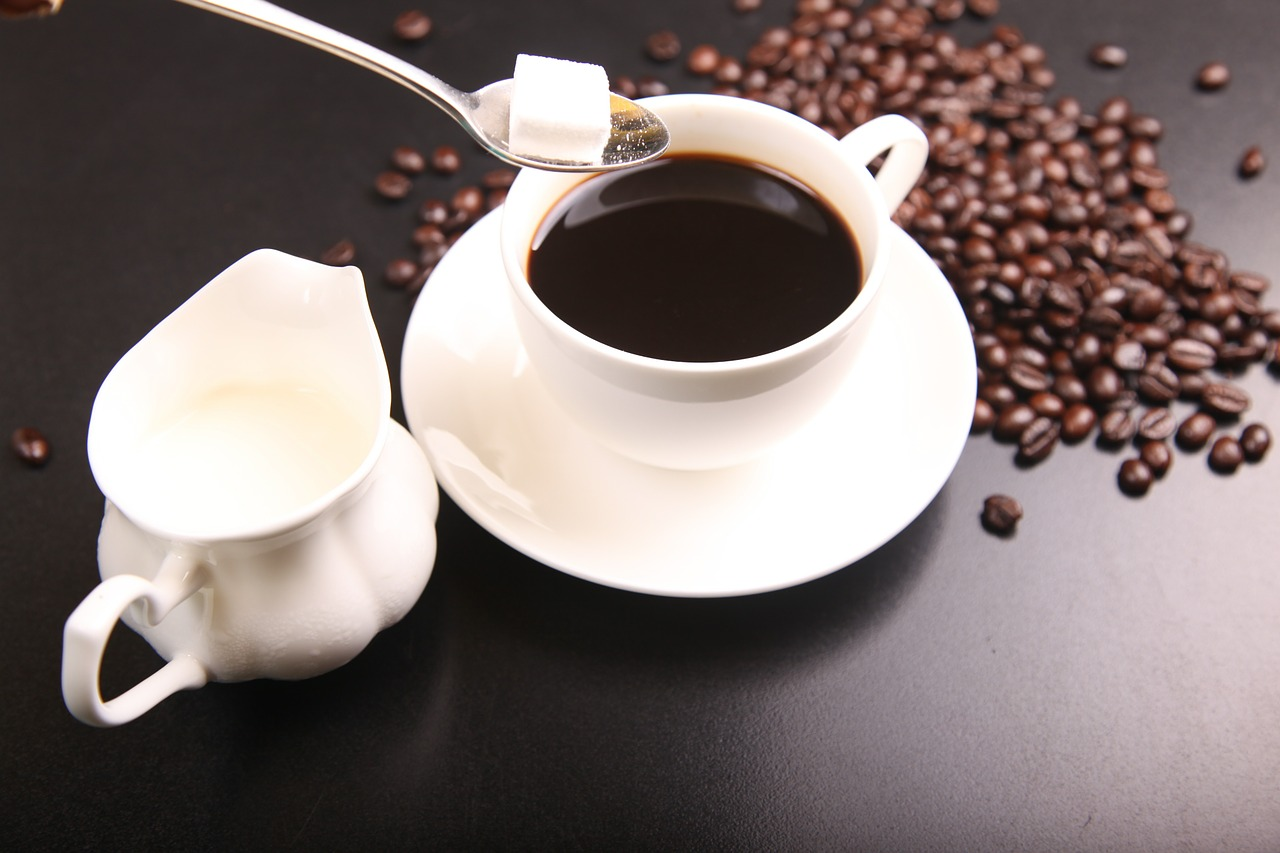
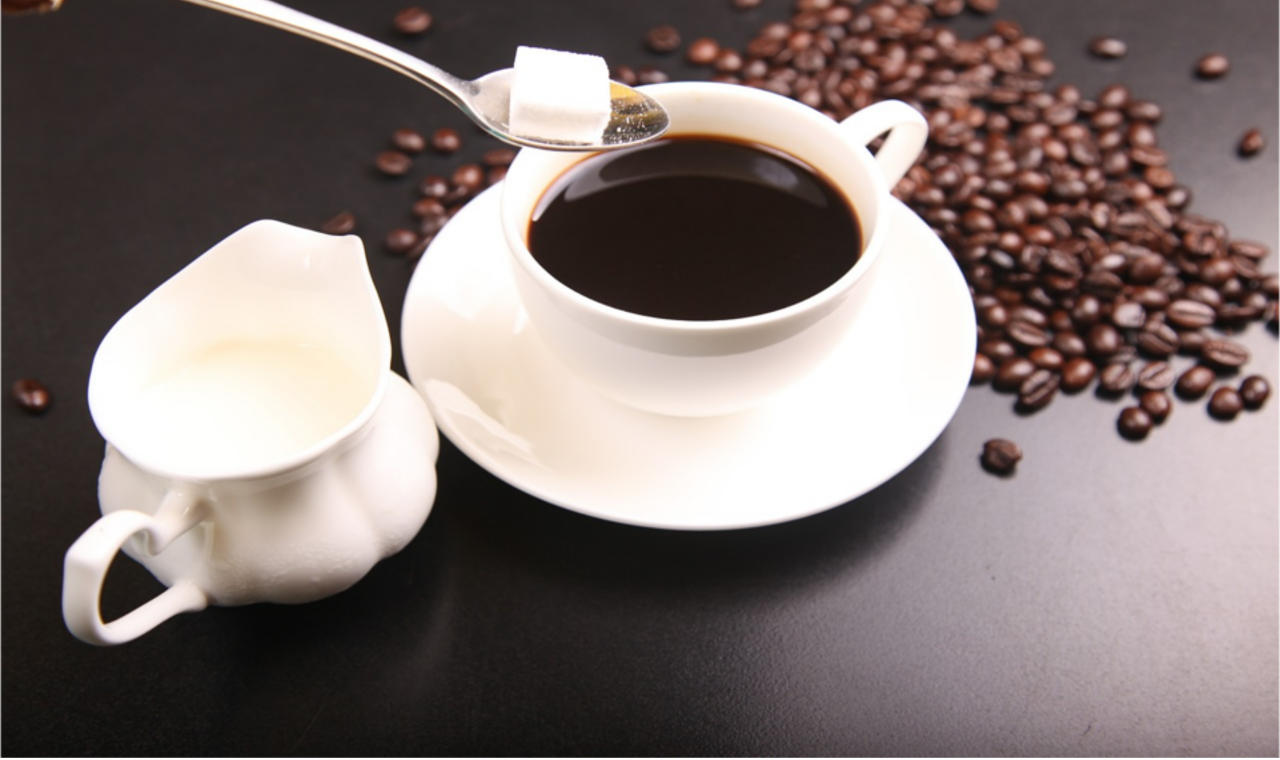
manage font size on various devices, added photos for small screen

diff --git a/src/main/resources/templates/index.html b/src/main/resources/templates/index.html
@@ -8,7 +8,7 @@
 <body>
 	<section layout:fragment="content">
 		<div class="container">
-			<div class="greetings center-block text-center">
+			<div class="greetings text-center">
 				<div id="mycarousel" class="carousel slide" data-ride="carousel">
 					<div class="carousel-inner">
 						<div class="item active">
@@ -16,24 +16,29 @@
 							<h3>Oh, Hello There Beautiful Human Being!</h3>
 							
 							<div th:if="${goodMorning}">
-								<img th:src="@{/image/morning.jpg}" class="img-responsive" alt="Greetings from Buddhi Bal Thapa" />
+								<img th:src="@{/image/morning.jpg}" class="center-block img-responsive hidden-sm hidden-xs" alt="Greetings from Buddhi Bal Thapa" />
+								<img th:src="@{/image/morning640x360.jpg}" class="center-block img-responsive hidden-md hidden-lg" alt="Greetings from Buddhi Bal Thapa" />
 								<div class="carousel-caption greeting-text">Good morning! Have a great day.</div>
 							</div>
 
 							<div th:if="${goodAfternoon}">
-								<img th:src="@{/image/afternoon.jpg}" class="img-responsive" alt="Greetings from Buddhi Bal Thapa" />
+								<img th:src="@{/image/afternoon.jpg}" class="center-block img-responsive hidden-sm hidden-xs" alt="Greetings from Buddhi Bal Thapa" />
+								<img th:src="@{/image/afternoon640x360.jpg}" class="center-block img-responsive hidden-md hidden-lg" alt="Greetings from Buddhi Bal Thapa" />
 								<div class="carousel-caption greeting-text">Good afternoon! How is your day today? Time for coffee?</div>
 							</div>
 							<div th:if="${goodEvening}">
-								<img th:src="@{/image/evening.jpg}" class="img-responsive" alt="Greetings from Buddhi Bal Thapa" />
+								<img th:src="@{/image/evening.jpg}" class="center-block img-responsive hidden-sm hidden-xs" alt="Greetings from Buddhi Bal Thapa" />
+								<img th:src="@{/image/evening640x360.jpg}" class="center-block img-responsive hidden-md hidden-lg" alt="Greetings from Buddhi Bal Thapa" />
 								<div class="carousel-caption greeting-text">Good evening! Time for some snacks?</div>
 							</div>
 							<div th:if="${goodNight}">
-								<img th:src="@{/image/night.jpg}" class="img-responsive" alt="Greetings from Buddhi Bal Thapa" />
+								<img th:src="@{/image/night.jpg}" class="center-block img-responsive hidden-sm hidden-xs" alt="Greetings from Buddhi Bal Thapa" />
+								<img th:src="@{/image/night640x360.jpg}" class="center-block img-responsive hidden-md hidden-lg" alt="Greetings from Buddhi Bal Thapa" />
 								<div class="carousel-caption greeting-text">Hope you had a great day today. Good night, time to sleep</div>
 							</div>
 							<div th:if="${midNight}">
-								<img th:src="@{/image/midnight.jpg}" class="img-responsive" alt="Greetings from Buddhi Bal Thapa" />
+								<img th:src="@{/image/midnight.jpg}" class="center-block img-responsive hidden-sm hidden-xs" alt="Greetings from Buddhi Bal Thapa" />
+								<img th:src="@{/image/midnight640x360.jpg}" class="center-block img-responsive hidden-md hidden-lg" alt="Greetings from Buddhi Bal Thapa" />
 								<div class="carousel-caption greeting-text">Wow! You still awake?</div>
 							</div>
 						</div>

diff --git a/src/main/resources/static/css/site.css b/src/main/resources/static/css/site.css
@@ -1,25 +1,24 @@
-i@CHARSET "UTF-8";
+i
+ @CHARSET "UTF-8";
 
 /* Custom CSS for the application */
- 
 html, body {
-	background-color:#efefef;
-  	height: 100%;
-  	margin: 0;
+	background-color: #efefef;
+	height: 100%;
+	margin: 0;
 	font-size: 16px;
 	line-height: 24px;
 }
 
 /* keep footer at buttom */
 .content {
-  min-height: calc(100vh - 70px);
+	min-height: calc(100vh - 70px);
 }
 
 .footer {
-  height: 50px;
+	height: 50px;
 }
 /* footer ends */
-
 ul {
 	list-style-type: none;
 }
@@ -37,7 +36,7 @@ a {
 	border-radius: 0px;
 }
 
-.home-logo{
+.home-logo {
 	margin-top: -8px;
 }
 
@@ -103,8 +102,9 @@ a {
 .panel-title {
 	color: #eadbdb;
 }
-.login-button{
-	width:100%
+
+.login-button {
+	width: 100%
 }
 /* login box ends */
 
@@ -144,7 +144,7 @@ a {
 
 .blog-panel {
 	margin-left: 10px;
-	margin-top:10px;
+	margin-top: 10px;
 }
 
 .title-heading {
@@ -158,60 +158,69 @@ a {
 	margin: -10px 0px;
 }
 
-.blog-visit{
-    border-top: 1px solid gray;
-    border-bottom: 1px solid gray;
-    margin-top: 25px;
+.blog-visit {
+	border-top: 1px solid gray;
+	border-bottom: 1px solid gray;
+	margin-top: 25px;
 }
 
 .blog-visit-li {
-	display:inline-block;
+	display: inline-block;
 }
 
 .new-blog-header {
-    background-color: #0e2342;
-    /* text-align: right; */
-    color: #e9e7e7;
-    margin: 8px 0px;
-    padding: 10px;
+	background-color: #0e2342;
+	/* text-align: right; */
+	color: #e9e7e7;
+	margin: 8px 0px;
+	padding: 10px;
 }
 
-.view-all-blog-header{
+.view-all-blog-header {
 	text-align: right !important;
 }
 
-.green{
-	color:green;
+.green {
+	color: green;
 }
-.red{
-	color:red;
+
+.red {
+	color: red;
 }
 /* blog page ends */
 
 /* register page starts */
-.login-link{
+.login-link {
 	position: relative;
 	top: -24px;
 }
-.login-link>a:hover{
-	color:white !important;
+
+.login-link>a:hover {
+	color: white !important;
 }
 /* register page starts */
-
-#disqus-comment{
+#disqus-comment {
 	width: 75%;
 }
 
-.share-this{
+.share-this {
 	margin-left: -30px;
-margin-top: 25px;
-margin-bottom: -20px;
+	margin-top: 25px;
+	margin-bottom: -20px;
 }
 
 /* langing page starts */
-.greeting-text{
+.greeting-text {
 	font-size: 2em;
-	background-color:rgba(30, 83, 31, 0.5);
-}	
+	background-color: rgba(30, 83, 31, 0.5);
+}
 
-/* langing page starts */
+@media screen and (max-device-width : 360px){
+  .greeting-text{
+    font-size:1.5em !important;
+  }
+}
+
+
+
+/* langing page stops */

diff --git a/src/main/resources/templates/layout.html b/src/main/resources/templates/layout.html
@@ -10,7 +10,7 @@
 	<link rel="stylesheet" th:href="@{https://maxcdn.bootstrapcdn.com/bootstrap/3.3.7/css/bootstrap.min.css}"
 		integrity="sha384-BVYiiSIFeK1dGmJRAkycuHAHRg32OmUcww7on3RYdg4Va+PmSTsz/K68vbdEjh4u"
 		crossorigin="anonymous" />
-	<link rel="stylesheet" th:href="@{/css/site.css}" />
+	<link rel="stylesheet" th:href="@{/css/site.css}" media="screen" />
 	
 	<link rel="stylesheet" th:href="@{https://cdn.datatables.net/1.10.15/css/jquery.dataTables.min.css}" />
 	<link rel="stylesheet" th:href="@{/css/sweetalert.css}" />
@@ -137,7 +137,7 @@
 					</div>
 					<div class="col-sm-4 hidden-xs">
 						<ul>
-							<li><a href="">github</a></li>
+							<li><a th:href="@{https://github.com/budthapa}" target="_blank">github</a></li>
 							<li><a href="">linkedin</a></li>
 							<li><a href="">twitter</a></li>
 						</ul>
